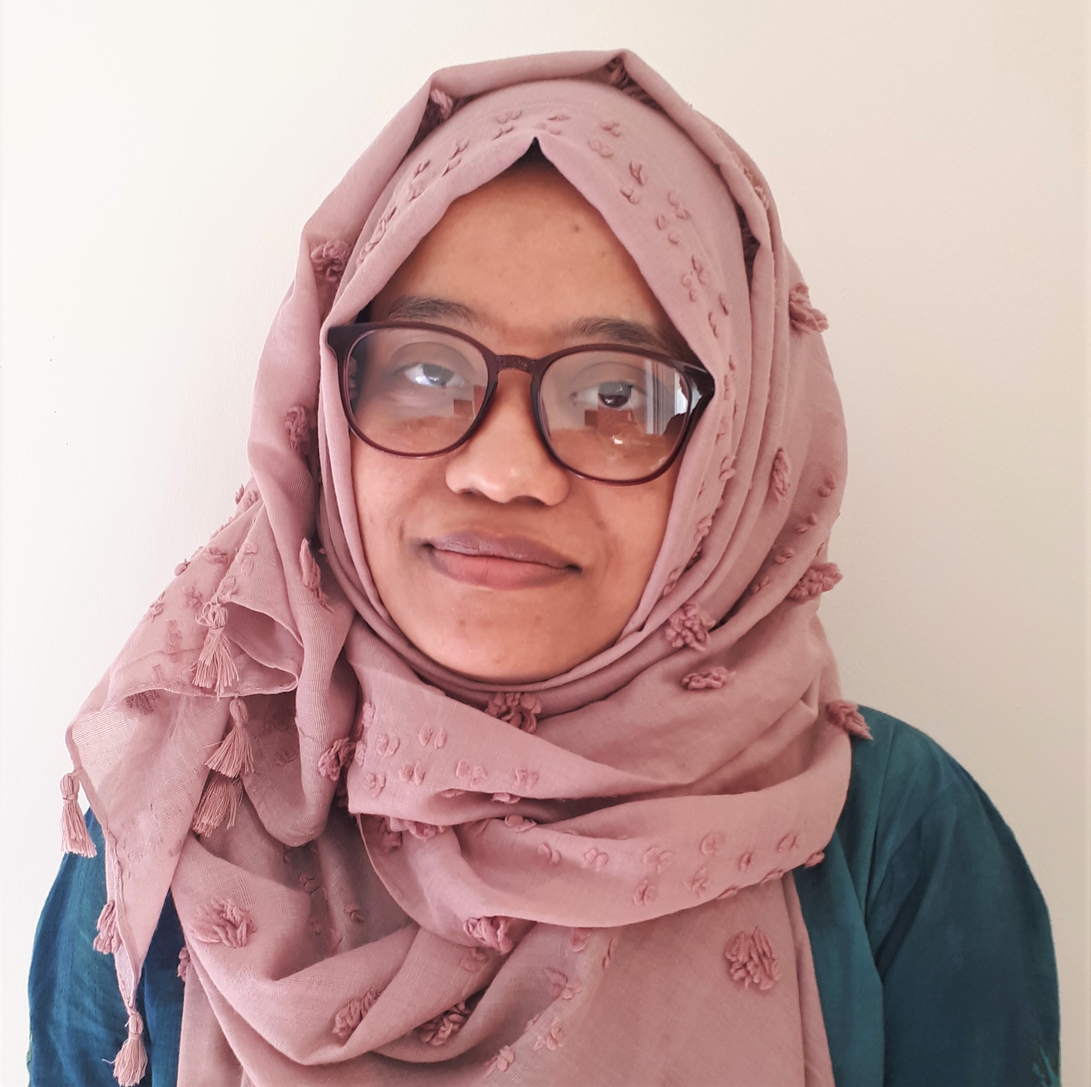
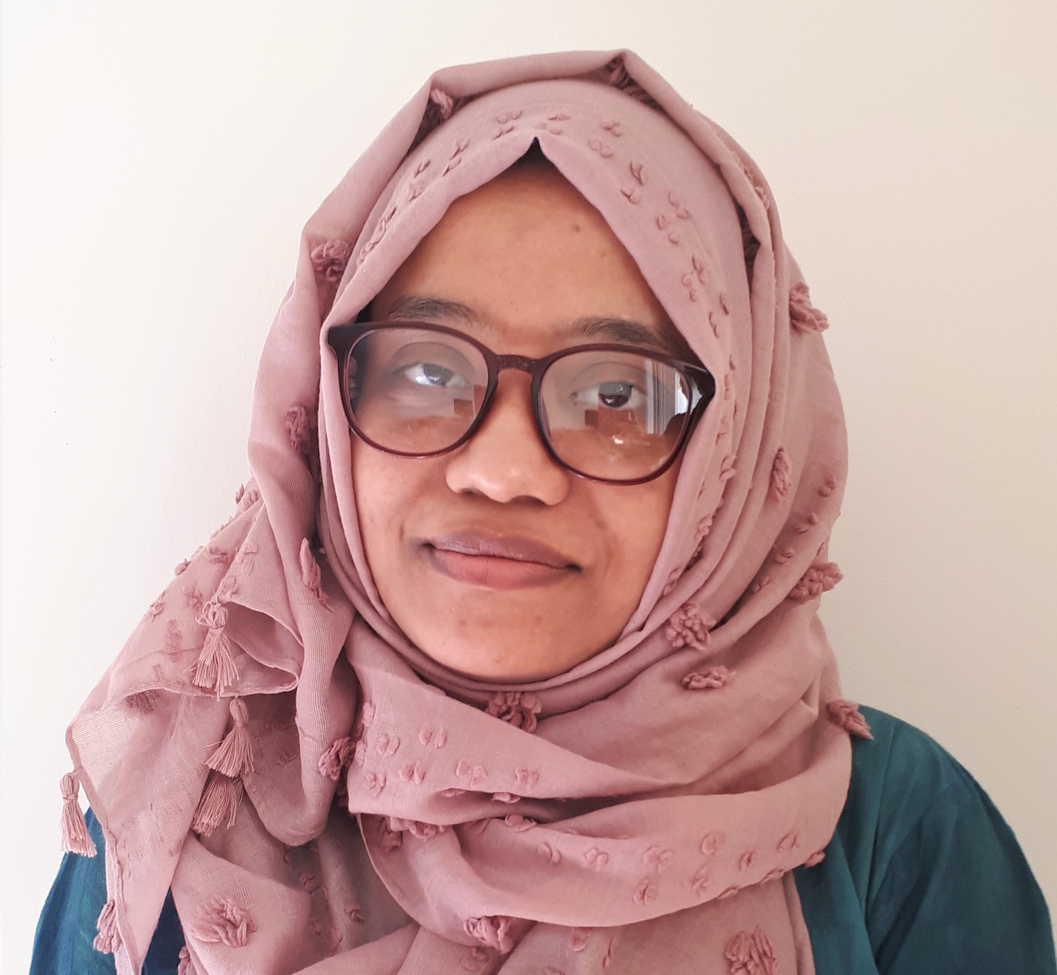
update personnel

diff --git a/people.html b/people.html
@@ -344,16 +344,13 @@ Fungal Pathogens</em>.</p>
 <div id="anuradha-jayathissa" class="section level3">
 <h3><a href="https://www.linkedin.com/in/anuradha-jayathissa-70b6611b0/"
 target="_blank">Anuradha Jayathissa</a></h3>
-<p><em>PhD student.</em><br />
+<p><em>PhD candidate.</em><br />
 Anuradha is studying impacts of <em>Fusarium</em> spp. on malt quality,
 and investigating hydrophobin proteins produced by <em>Fusarium</em>.
 Anuradha is a fellow in the <a
 href="https://twitter.com/evofunpath?lang=en" target="_blank">EvoFunPath
 training program</a>.</p>
 <p><img src = "media/EvoFunPath_logo.png" style = "width: 30%; margin-left: 20px" align = "left"></p>
-<p>
-</br>
-</p>
 <p>
 </br>
 </p>
@@ -380,9 +377,6 @@ target="_blank">Dr. Doug Cattani</a>).</em><br />
 Tarin is researching fungal diseases of an emerging perennial grain
 crop, <a href="https://kernza.org/" target="_blank">Intermediate
 Wheatgrass</a>.</p>
-<p>
-</br>
-</p>
 <p>
 </br>
 </p>
@@ -447,9 +441,6 @@ target="_blank">Steve Crittenden</a> and Oscar Molina.</p>
 <p>
 </br>
 </p>
-<p>
-</br>
-</p>
 </div>
 <div id="brian-harrison" class="section level3">
 <h3>Brian Harrison</h3>
@@ -468,41 +459,14 @@ target="_blank">EvoFunPath training program</a>.</p>
 <p>
 </br>
 </p>
-<p>
-</br>
-</p>
-<p>
-</br>
-</p>
-<p><img src="media/Patel_Daksh.jpeg" width="30%" style = "float:right; padding:10px" style="display: block; margin: auto 0 auto auto;" /></p>
 </div>
-<div id="daksh-patel" class="section level3">
-<h3><a href="https://www.linkedin.com/in/daksh-patel-63b605225/"
-target="_blank">Daksh Patel</a></h3>
-<p><em>Co-op.</em><br />
-Daksh is supporting our scanning electron microscopy and investigating
-microscopic features of barley florets.</p>
-<p>
-</br>
-</p>
-<p>
-</br>
-</p>
-<p>
-</br>
-</p>
-</div>
-<div id="mailly-pham" class="section level3">
-<h3>Mailly Pham</h3>
-<p><em>Co-op student.</em><br />
-Mailly is working with quantification of deoxynivalenol by HPLC, and is
-supporting our research involving intermediate wheatgrass.</p>
-<p>
-</br>
-</p>
-<p>
-</br>
-</p>
+<div id="kelsey-wog" class="section level3">
+<h3>Kelsey Wog</h3>
+<p><em>MSc student (co-advised with <a
+href="https://www.microstatslab.ca/" target="_blank">Dr. Aleeza
+Gerstein</a>).</em><br />
+Kelsey is studying the evolution of resistance towards fungicides in
+<em>Fusarium graminearum</em>.</p>
 <p>
 </br>
 </p>
@@ -515,6 +479,34 @@ cell wall degrading enzymes in <em>Fusarium graminearum</em>.</p>
 <p>
 </br>
 </p>
+<p><img src="media/Nelson_Robin.jpeg" width="30%" style = "float:right; padding:10px" style="display: block; margin: auto 0 auto auto;" /></p>
+</div>
+<div id="robin-nelson" class="section level3">
+<h3>Robin Nelson</h3>
+<p><em>Co-op student.</em><br />
+Robin is investigating carbohydrate active enzymes in <em>Fusarium
+graminearum</em>.</p>
+<p>
+</br>
+</p>
+<p>
+</br>
+</p>
+</div>
+<div id="linh-le" class="section level3">
+<h3>Linh Le</h3>
+<p><em>Co-op student.</em><br />
+Linh is performing research related to impacts of <em>Fusarium
+graminearum</em> on malt quality.</p>
+<p>
+</br>
+</p>
+</div>
+<div id="raveena-badu" class="section level3">
+<h3>Raveena Badu</h3>
+<p><em>Co-op student.</em><br />
+Raveena is studying soil microbial diversity and its impacts on plant
+growth.</p>
 <p>
 </br>
 </p>
@@ -528,6 +520,9 @@ cell wall degrading enzymes in <em>Fusarium graminearum</em>.</p>
 </div>
 <div id="lab-alumni-from-u-manitoba" class="section level2">
 <h2>Lab alumni from U Manitoba</h2>
+<p>Mailly Pham, <em>Co-op</em></p>
+<p><a href="https://www.linkedin.com/in/daksh-patel-63b605225/"
+target="_blank">Daksh Patel</a>, <em>Co-op</em></p>
 <p><a href="https://www.linkedin.com/in/janice-fajardo/"
 target="_blank">Janice Fajardo</a>, <em>MSc</em></p>
 <p><a href="https://www.linkedin.com/in/natasha-melnichuk-854415151/"
@@ -542,7 +537,11 @@ target="_blank">Jenny Solanki</a>, <em>Undergraduate summer
 research</em></p>
 <p>Urim Iyasere, <em>Co-op</em></p>
 <p><a href="https://www.linkedin.com/in/arshani-alukumura-9b1a64152/"
-target="_blank">Arshani Alukumbura</a>, <em>MSc</em></p>
+target="_blank">Arshani Alukumbura</a>, <em>MSc</em>   <a
+href="https://www.frontiersin.org/articles/10.3389/fmicb.2022.972016/full"
+target="_blank">Minimal impacts on the wheat microbiome when
+<em>Trichoderma gamsii</em> T6085 is applied as a biocontrol agent to
+manage fusarium head blight disease</a></p>
 <p>Heidi Ahrenholtz, <em>Co-op</em></p>
 <p>Damian Elizalde Amezcua, <em>Undergraduate honours</em></p>
 <p><a href="https://www.linkedin.com/in/meagan-smith-5a6683213/"
